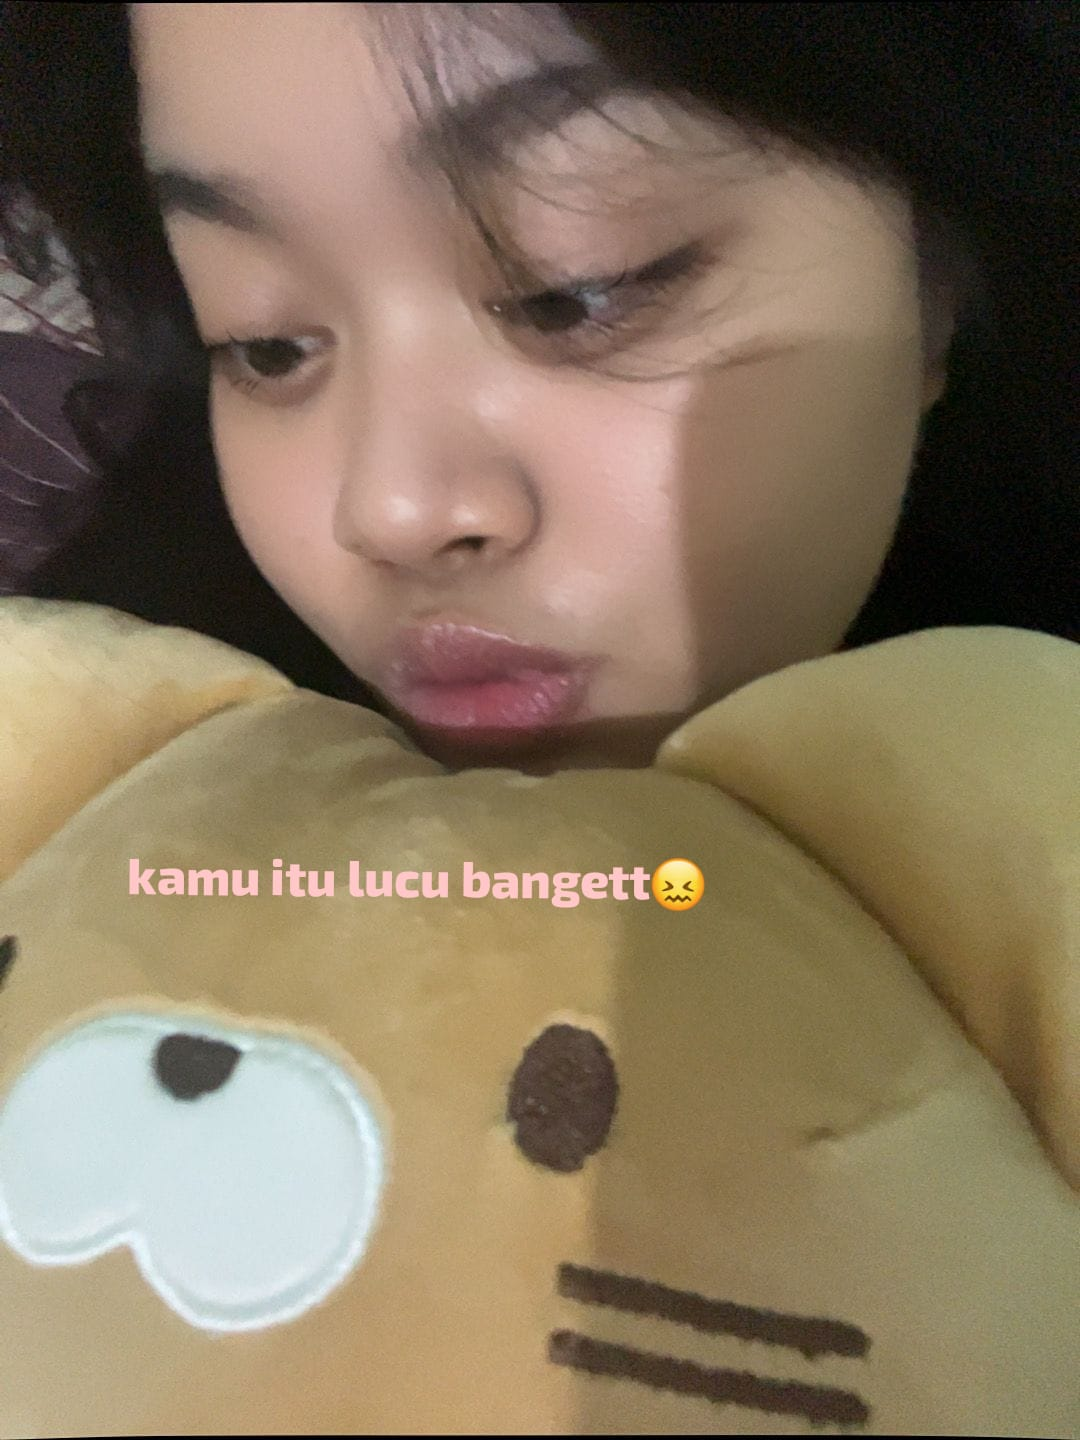
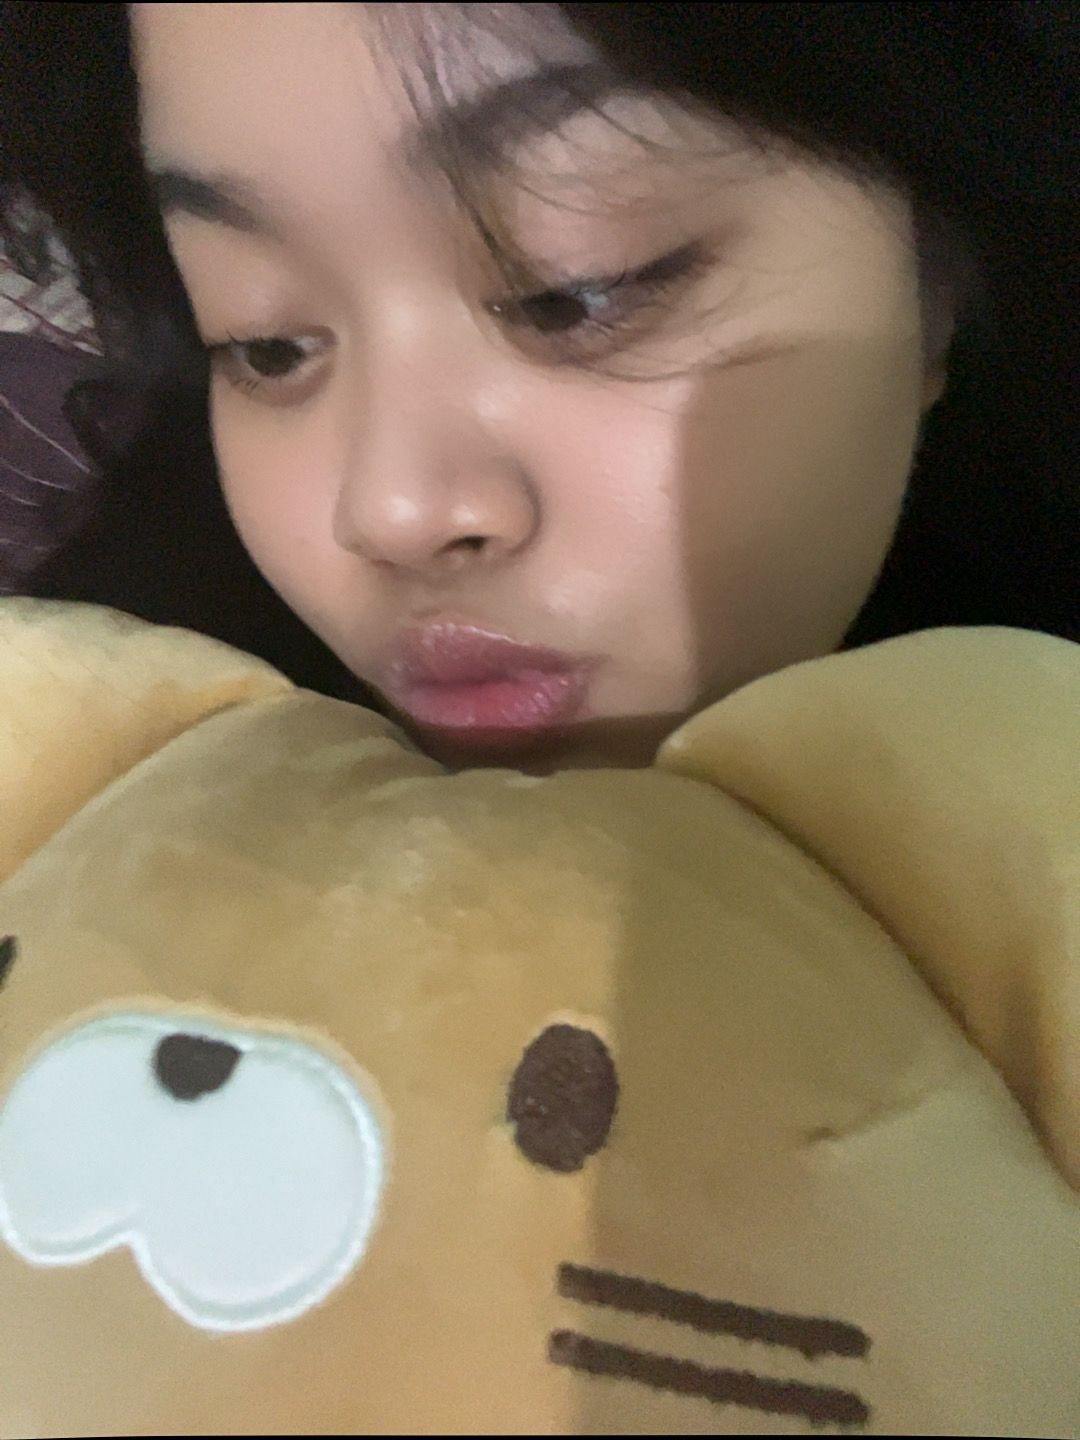
Add files via upload

Changed region(s): [[0.1222, 0.5938, 0.6722, 0.6562]]

diff --git a/index.html b/index.html
@@ -139,6 +139,13 @@ button {
   object-fit: cover;
 }
 
+.caption {
+  margin-top: 10px;
+  font-size: 16px;
+  color: #5c3d46;
+  font-weight: bold;
+}
+
 .bubble {
   position: absolute;
   bottom: -50px;
@@ -201,6 +208,10 @@ button {
       <img id="slideImage" src="mbg3.jpeg">
     </div>
 
+    <div class="caption" id="captionText">
+      kamu itu lucu bangett
+    </div>
+
     <button class="yes" onclick="prevSlide()">⬅</button>
     <button class="yes" onclick="nextSlide()">➡</button>
   </div>
@@ -217,9 +228,9 @@ const texts = [
 ];
 
 const slides = [
-  "mbg3.jpeg",
-  "mbg4.jpeg",
-  "mbg5.jpeg"
+  { img: "mbg3.jpeg", text: "kamu itu lucu bangett" },
+  { img: "mbg4.jpeg", text: "kamu itu selalu cantik di mata akuu" },
+  { img: "mbg5.jpeg", text: "makasih ya sudah menjadi manusia favorit akuu, dan semoga bisa terus seperti itu" }
 ];
 
 let index = 0;
@@ -243,6 +254,11 @@ function nextText() {
   }
 }
 
+function updateSlide() {
+  document.getElementById("slideImage").src = slides[slideIndex].img;
+  document.getElementById("captionText").innerText = slides[slideIndex].text;
+}
+
 function nextSlide() {
   slideIndex++;
   if (slideIndex >= slides.length) slideIndex = 0;
@@ -253,10 +269,6 @@ function prevSlide() {
   slideIndex--;
   if (slideIndex < 0) slideIndex = slides.length - 1;
   updateSlide();
-}
-
-function updateSlide() {
-  document.getElementById("slideImage").src = slides[slideIndex];
 }
 
 function runAway() {
@@ -274,7 +286,6 @@ function createBubble() {
   bubble.style.animationDuration = (4 + Math.random() * 4) + "s";
 
   document.body.appendChild(bubble);
-
   setTimeout(() => bubble.remove(), 8000);
 }
 
